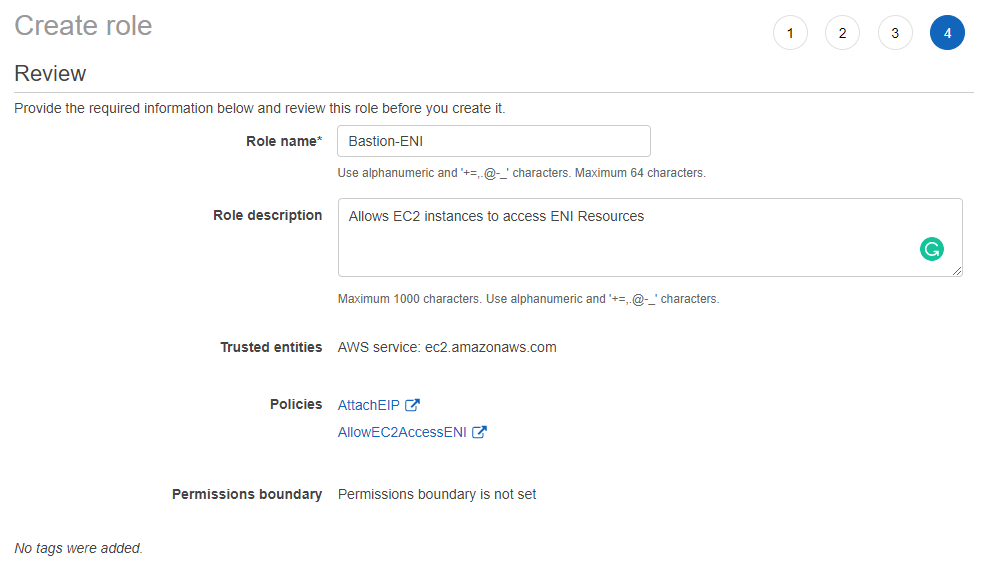
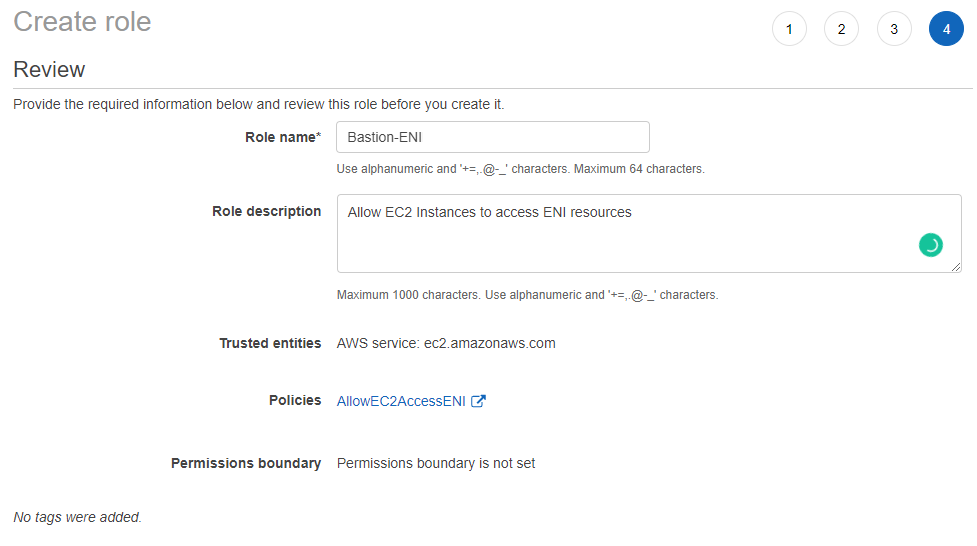
updated lab 2

diff --git a/Lab 2/readme.md b/Lab 2/readme.md
@@ -24,26 +24,6 @@ Because of its exposure to potential attack, a bastion host must minimize the ch
 </p>
 
 ```
-{
-    "Version": "2012-10-17",
-    "Statement": [
-        {
-            "Sid": "VisualEditor0",
-            "Effect": "Allow",
-            "Action": [
-                "ec2:ReleaseAddress",
-                "ec2:DisassociateAddress",
-                "ec2:DescribeNetworkInterfaces",
-                "ec2:AssociateAddress",
-                "ec2:AllocateAddress"
-            ],
-            "Resource": "*"
-        }
-    ]
-}
-```
-
-```
 #!
 INSTANCE_ID=`/usr/bin/curl -s http://169.254.169.254/latest/meta-data/instance-id`\
 aws ec2 associate-address --instance-id $INSTANCE_ID --allocation-id eipalloc-0c42634b4d8252ded --allow-reassociation --region ap-southeast-1
@@ -67,7 +47,7 @@ An Elastic IP address is allocated to your AWS account, and is yours until you r
   <img src=https://github.com/ravensp93/aws-three-tier-web/blob/master/Lab%202/blob/lab-2-pic-3.PNG>
 </p>
 
-**Note: Save the IP Address for accessing the instance and resource ID for cli attachment of elastic IP onto the bastion instance later**
+**Note: Save the IP Address for accessing the instance and resource ID for cli attachment of elastic IP onto the bastion host later**
 
 ## Key Pair
 A key pair, consisting of a private key and a public key, is a set of security credentials that you use to prove your identity when connecting to an instance.
@@ -78,7 +58,7 @@ A key pair, consisting of a private key and a public key, is a set of security c
   <img src=https://github.com/ravensp93/aws-three-tier-web/blob/master/Lab%202/blob/lab-2-pic-4.PNG>
 </p>
 
-2) Tag VPC resource with a **name** bastion-keys
+2) Tag VPC resource with a **name:** bastion-keys
 3) Select **ppk** file format 
 4) Click **Create Key Pair**
 
@@ -86,12 +66,115 @@ A key pair, consisting of a private key and a public key, is a set of security c
   <img src=https://github.com/ravensp93/aws-three-tier-web/blob/master/Lab%202/blob/lab-2-pic-32.PNG>
 </p>
 
-**Note: Key pair will be downloaded automatically on your browser, save it for accessing The instances later**
+**Note: Key pair will be downloaded automatically on your browser, save it for accessing the bastion host later**
 ## Security Group
+A security group acts as a virtual firewall for your instance to control inbound and outbound traffic. They can be attached to certain resources such as EC2
+on AWS.
 
+1) In **EC2** service page, navigate to **Security Group** page and click on **Create security group**
+
+<p align=center>
+  <img src=https://github.com/ravensp93/aws-three-tier-web/blob/master/Lab%202/blob/lab-2-pic-5.PNG>
+</p>
+
+2) Set **Security Group Name:** Bastion-SecG
+3) Set **Description:** Allows SSH For Bastion Host
+4) Under **Inbound Rules**, Click **Add rule**
+5) Select **Type:** SSH, **Source:** Custom 0.0.0.0/0 
+- **Note: the source should be set as trusted IPs only.**
+6) Click **Create security group**
+
+<p align=center>
+  <img src=https://github.com/ravensp93/aws-three-tier-web/blob/master/Lab%202/blob/lab-2-pic-6.PNG>
+</p>
 ## IAM Policy
+A policy defines the AWS permissions that you can assign to a user, group, or role.
+
+In this section, we will create a policy to allow our bastion host to handle ElasticIPs resource 
+
+1) In **IAM** service page, navigate to **Policies** page and click on **Create policy**
+
+<p align=center>
+  <img src=https://github.com/ravensp93/aws-three-tier-web/blob/master/Lab%202/blob/lab-2-pic-7.PNG>
+</p>
+
+2) Select the **JSON** tab, copy and paste the code below into the editor. 
+The following JSON object denotes an **Allow** for certain actions on other resources (e.g DisassociateAddress)
+```
+{
+    "Version": "2012-10-17",
+    "Statement": [
+        {
+            "Sid": "VisualEditor0",
+            "Effect": "Allow",
+            "Action": [
+                "ec2:ReleaseAddress",
+                "ec2:DisassociateAddress",
+                "ec2:DescribeNetworkInterfaces",
+                "ec2:AssociateAddress",
+                "ec2:AllocateAddress"
+            ],
+            "Resource": "*"
+        }
+    ]
+}
+```
+3) Click **Review policy** 
+
+<p align=center>
+  <img src=https://github.com/ravensp93/aws-three-tier-web/blob/master/Lab%202/blob/lab-2-pic-8.PNG>
+</p>
+
+4) Set **Name:** AllowEC2AccessENI
+5) Set **Description:** To Allow EC2 Instances to access ENI resources
+6) Click **Create Policy**
+
+<p align=center>
+  <img src=https://github.com/ravensp93/aws-three-tier-web/blob/master/Lab%202/blob/lab-2-pic-9.PNG>
+</p>
 
 ## IAM Role
+IAM roles are a secure way to grant permissions to entities that you trust. Examples of entities include the following:
+- IAM user in another account
+- Application code running on an EC2 instance that needs to perform actions on AWS resources
+- An AWS service that needs to act on resources in your account to provide its features
+- Users from a corporate directory who use identity federation with SAML
+
+We are going to create a role for our EC2 and attach the previously created policy to it. This will allow any EC2 instances
+attached with this role to have permission to handle elastic IPs resource
+
+1) In **IAM** service page, navigate to **Roles** page and click on **Create Role**
+
+<p align=center>
+  <img src=https://github.com/ravensp93/aws-three-tier-web/blob/master/Lab%202/blob/lab-2-pic-10.PNG>
+</p>
+
+2) Select **Type** as **AWS service**
+
+<p align=center>
+  <img src=https://github.com/ravensp93/aws-three-tier-web/blob/master/Lab%202/blob/lab-2-pic-11.PNG>
+</p>
+
+3) Choose and Select **Use Case:** EC2 
+4) Click **Next: Permissions**
+
+<p align=center>
+  <img src=https://github.com/ravensp93/aws-three-tier-web/blob/master/Lab%202/blob/lab-2-pic-12.PNG>
+</p>
+
+5) Attach **Permissions policy:** AllowEC2AccessENI
+
+<p align=center>
+  <img src=https://github.com/ravensp93/aws-three-tier-web/blob/master/Lab%202/blob/lab-2-pic-13.PNG>
+</p>
+
+6) Set **Role name:** Bastion-ENI
+7) Set **Role description:** Allow EC2 Instances to access ENI resources
+8) Click **Create role**
+
+<p align=center>
+  <img src=https://github.com/ravensp93/aws-three-tier-web/blob/master/Lab%202/blob/lab-2-pic-14.PNG>
+</p>
 
 ## Launch Template
 
